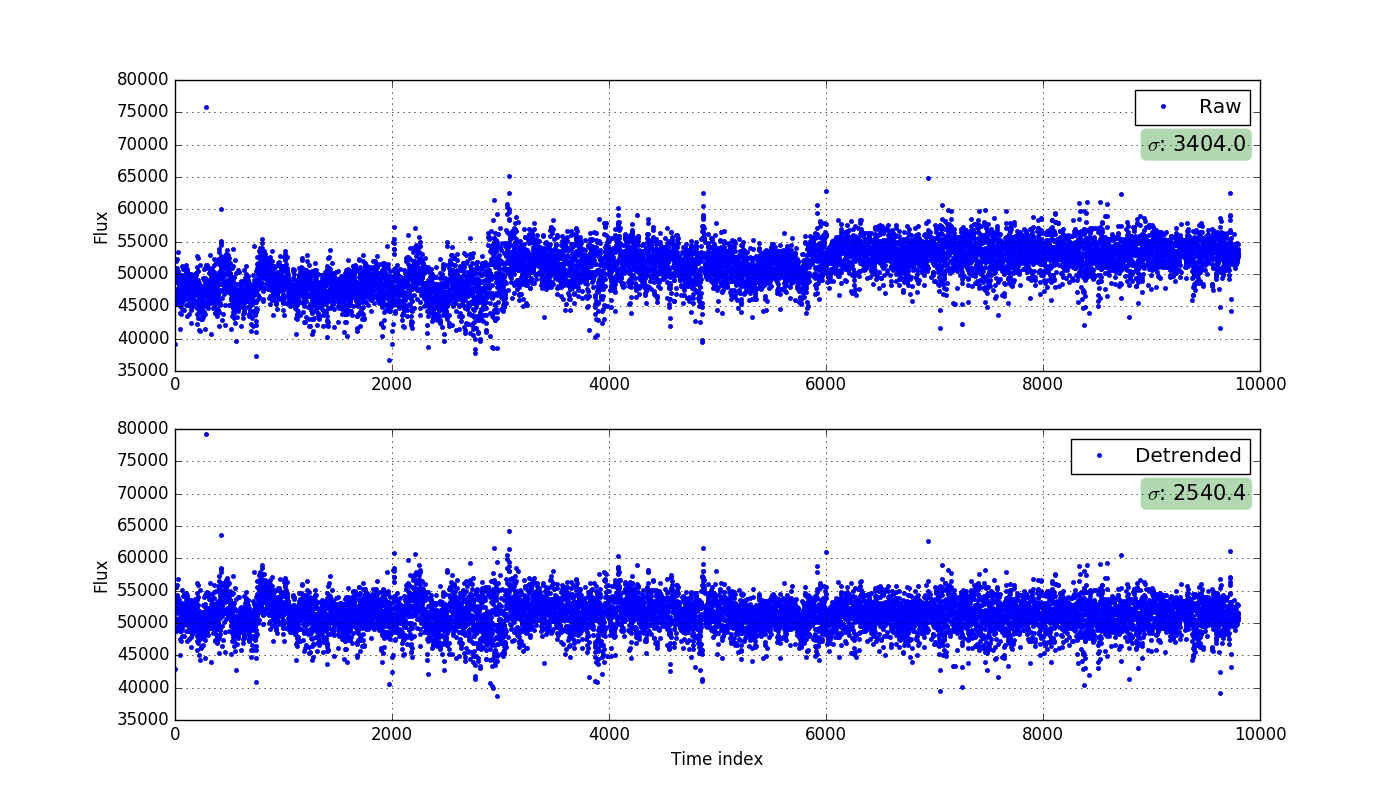
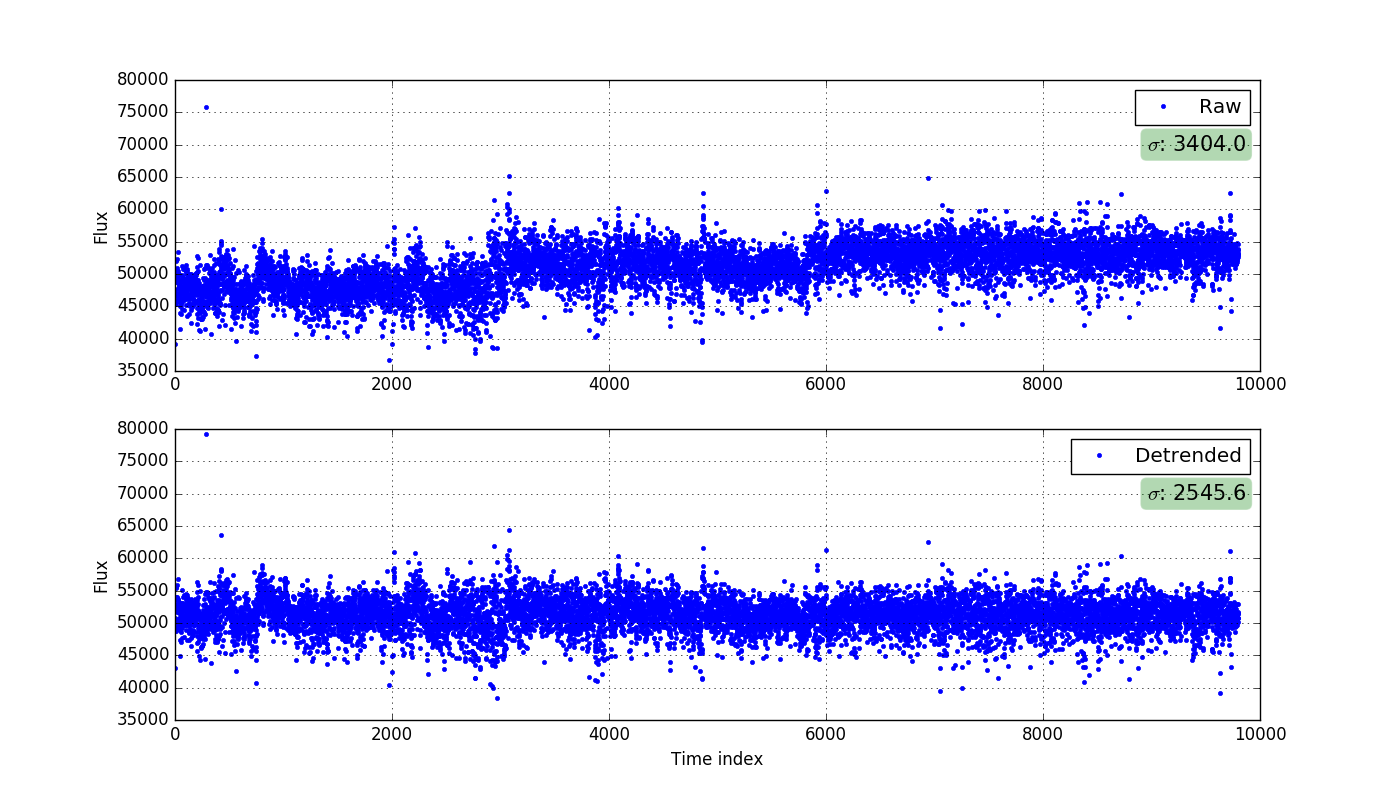
Many update

diff --git a/pdtrend/detrend.py b/pdtrend/detrend.py
@@ -1,5 +1,6 @@
 __author__ = 'kim'
 
+import warnings
 import numpy as np
 
 from sklearn.cluster import Birch
@@ -7,7 +8,8 @@ from scipy.optimize import least_squares
 
 
 class PDTrend:
-    def __init__(self, lcs, n_min_member=5, dist_cut=0.45):
+    def __init__(self, lcs, weights=None, xy_coords=None,
+                 n_min_member=10, dist_cut=0.45):
         """
         pdtrend determines master trends using Pearson correlation coefficients
         between each light curve and then provide a function to detrend
@@ -18,6 +20,15 @@ class PDTrend:
         Note that M must be same for all N light curves. pdtrend assumes that
         these M data points are synced in time. Thus pdtrend does not use
         any time information.
+        :param weights: A list of weights for the corresponding light curves.
+        It must contain N elements. N is the number of the light curves.
+        See the "lcs" parameter. Default is None, so the identical weights for
+        all light curves.
+        :param xy_coords: X and Y coordinates of stars of the light curves.
+        It must contain Nx2 elements, where N is the number of the light curves.
+        If the coordinates are given, the function "plot_spatial" can be called
+        after constructing master trends, which will plot the spatial
+        distribution of the master trends.
         :param n_min_member: The minimum number of members in each cluster.
         :param dist_cut: Distance cut to filter clusters. If the median distance
         between members in a cluster is larger than the cut, the cluster is
@@ -28,10 +39,34 @@ class PDTrend:
         if type(lcs) != np.ndarray:
             lcs = np.array(lcs)
 
+        if weights is not None:
+            if type(weights) != np.ndarray:
+                weights = np.array(weights)
+
+            if lcs.shape[0] != weights.shape[0]:
+                raise RuntimeError('Shapes of lcs and weights do not match.')
+        else:
+            # Same weights for the all light curves.
+            weights = np.ones(lcs.shape[0])
+
+        if xy_coords is not None:
+            if type(xy_coords) != np.ndarray:
+                xy_coords = np.array(xy_coords)
+
+            if lcs.shape[0] != xy_coords.shape[0]:
+                raise RuntimeError('Shapes of lcs and xy_coords do not match.')
+
         # Set parameters.
         self.lcs = lcs
+        self.weights = weights
+        self.xy_coords = xy_coords
         self.n_min_member = n_min_member
         self.dist_cut = dist_cut
+
+        # Initialize.
+        self.corr_matrix = None
+        self.dist_matrix = None
+        self.birch = None
 
     def _calculate_distance_matrix(self):
         """
@@ -77,6 +112,15 @@ class PDTrend:
 
         self._filtered_labels = _filtered_labels
 
+        # Check how many clusters are left.
+        if len(self._filtered_labels) == 0:
+            raise RuntimeWarning(
+                'No clusters were found. ' +
+                'Adjust input parameters and try again. ' +
+                'For instance, decrease "n_min_member" or ' +
+                'increase "dist_cut". For details, ' +
+                'visit https://github.com/dwkim78/pdtrend')
+
     def _build_master_trends(self):
         """
         Build master trends using the filtered clusters.
@@ -89,14 +133,22 @@ class PDTrend:
             master_trends_indices.append(index)
 
             trends = []
+            weights_sum = 0
             for i in range(len(index)):
-                # Normalize by standard deviation.
-                # So, no need to calculate weight again.
-                normed = (self.lcs[index[i]] - np.median(self.lcs[index[i]])) / \
-                         np.std(self.lcs[index[i]])
+                # Normalization.
+                med_lc = np.median(self.lcs[index[i]])
+                normed = (self.lcs[index[i]] - med_lc) / med_lc
+
+                # Weights.
+                weights = self.weights[index[i]]
+                normed *= weights
+                weights_sum += weights
+
                 trends.append(normed)
 
-            master_trends.append(np.sum(trends, axis=0) / len(index))
+            # Construct a master trends using the normalized and weighted
+            # light curves from the above for loop.
+            master_trends.append(np.sum(trends, axis=0) / weights_sum)
 
         self.master_trends_indices = master_trends_indices
         self.master_trends = master_trends
@@ -105,8 +157,14 @@ class PDTrend:
         """
         Run pdtrend pipeline.
         """
-        self._calculate_distance_matrix()
-        self._find_clusters()
+        if self.corr_matrix is None or self.dist_matrix is None:
+            self._calculate_distance_matrix()
+            self._find_clusters()
+        else:
+            # For the safety.
+            if self.birch is None:
+                self._find_clusters()
+
         self._filter_clusters()
         self._build_master_trends()
 
@@ -126,8 +184,14 @@ class PDTrend:
         """
         Detrend a light curves using the constructed master trends.
         """
+
+        # Convert the light curve set to numpy array.
+        if type(lc) != np.ndarray:
+            lc = np.array(lc)
+
         # Normalize.
-        raw = (lc - np.median(lc)) / np.std(lc)
+        med_lc = np.median(lc)
+        raw = (lc - med_lc) / med_lc
 
         # Initial guess.
         p0 = np.ones(len(self.master_trends))
@@ -139,6 +203,34 @@ class PDTrend:
         detrended = raw - self._func_trends(p1, self.master_trends)
 
         # Scale back to the original flux.
-        detrended = detrended * np.std(lc) + np.median(lc)
+        detrended = detrended * med_lc + med_lc
 
         return detrended
+
+    def plot_spatial(self, filename='spatial.png'):
+        """
+        Plot a spatial distribution of the constructed master trends.
+        :param filename: A png filename including the path. For example,
+        "./outputs/spatial.png". Default is "spatial.png"
+        """
+        if self.xy_coords is None:
+            warnings.warn('No x and y coordinates are given.')
+            return
+
+        import pylab as pl
+        pl.figure(figsize=(12, 12))
+        pl.title('Spatial distribution of the constructed master trends')
+
+        colors = 'bgrkmc'
+        marks = 's^.+x*'
+        for i in range(len(self.master_trends_indices)):
+            indices = self.master_trends_indices[i]
+            pl.plot(self.xy_coords[indices][:, 0],
+                    self.xy_coords[indices][:, 1],
+                    marker=marks[int(i / len(colors)) % len(marks)],
+                    color=colors[i % len(colors)], ls='None',
+                    label='Master trend %d' % (i + 1))
+        pl.xlabel('X coordinate')
+        pl.ylabel('Y coordinate')
+        pl.legend(numpoints=1)
+        pl.savefig(filename)

diff --git a/pdtrend/test/run.py b/pdtrend/test/run.py
@@ -15,8 +15,18 @@ def test():
     lcs = load_lightcurve_set()
     logger.info('\tThe number of light curves is %d.' % len(lcs))
 
+    np.random.seed(1024)
+    # Create random weights.
+    #weights = np.random.rand(lcs.shape[0])
+    # Same weights.
+    weights = np.ones(lcs.shape[0])
+
+    # X and Y coordinates
+    xy_coords = np.random.rand(lcs.shape[0], 2) * 1000.
+
     logger.info('Initializing pdtrend.')
-    pdt = PDTrend(lcs)
+    pdt = PDTrend(lcs, weights=weights, xy_coords=xy_coords,
+                  n_min_member=10, dist_cut=0.45)
 
     # We can run all the following routines using "pdtrend.run()",
     # but, here we do it individually to print log messages.
@@ -37,6 +47,9 @@ def test():
     output_path = './outputs/'
     if not os.path.exists(output_path):
         os.makedirs(output_path)
+
+    # Plotting spatial distribution.
+    pdt.plot_spatial('%s/spatial.png' % output_path)
 
     # Plotting the master trends.
     pl.figure(figsize=(10, 4))

diff --git a/setup.py b/setup.py
@@ -21,7 +21,7 @@ setup(
     keywords=['astronomy', 'light curves', 'time-series survey',
               'machine learning', 'trend', 'detrend'],
     classifiers=[
-        'Development Status :: 3 - Alpha',
+        'Development Status :: 2 - Pre-Alpha',
         'Intended Audience :: Science/Research',
         'License :: OSI Approved :: MIT License',
         'Natural Language :: English',

diff --git a/pdtrend/__init__.py b/pdtrend/__init__.py
@@ -4,5 +4,5 @@ from pdtrend.detrend import PDTrend
 from pdtrend.test.run import test
 
 from pdtrend.utils.logger import Logger
-
+from pdtrend.datasets.base import load_lightcurve_set
 

diff --git a/README.md b/README.md
@@ -1,4 +1,4 @@
-# PDT
+# PDT (Under Development)
 
 <div align="center"><img src="./pdtrend/datasets/images/PDT_logo.png"></div>
 
@@ -8,7 +8,7 @@ PDT (<b>P</b>hotometric <b>D</b>e<b>T</b>rending Algorithm  aims to remove syste
 The latest PDT uses [Birch](https://en.wikipedia.org/wiki/BIRCH) to find highly-correlated light curves rather than [Hierarchical clustering](https://en.wikipedia.org/wiki/Hierarchical_clustering) that [Kim et al. 2009](http://adsabs.harvard.edu/abs/2009MNRAS.397..558K) originally used. This is mainly because 1) Birch is scalable (i.e. applicable to large dataset), and 2) Birch does not need to set the number of clusters.
 
 
-Note that the input light curves <b>must</b> have the same number of data points. PDT then assumes that each light curve is synced in time. PDT is not designed to deal with missing data points or desynced data points. Also note that the light curves must be cleaned beforehand (e.g. highly-fluctuated data points, etc). Nevertheless, such functionality (e.g. dealing with desynced data, pre-processing, etc.) might be implemented in the future.  
+Note that the input light curves <b>must</b> have the same number of data points. PDT then assumes that each light curve is synced in time. PDT is not designed to deal with missing data points or desynced data points. Also note that the light curves <b>must</b> be cleaned beforehand (e.g. highly-fluctuated data points, etc). Nevertheless, such functionality (e.g. dealing with desynced data, pre-processing, etc.) might be implemented in the future.  
 
 Although PDT is designed for astronomical research, PDT can be applied to any kind of time series data such as stock market, weather data, etc.
 
@@ -93,11 +93,11 @@ yyyy-mm-dd hh:mm:ss,sss INFO - Ploting results.
 yyyy-mm-dd hh:mm:ss,sss INFO - Done.
 ```
 
-This command reads the sample data set cosisting of 57 Pan-STARRS light curves (Python pickled and bzipped), run the clustering algorithm (i.e. Birch) to find clusters, construct master trends using the clusters, and detrend one sample light curve. In addition, it generates two images under the "./output" folder.
+This command reads the sample data set cosisting of 57 Pan-STARRS light curves (Python pickled and bzipped), run the clustering algorithm (i.e. Birch) to find clusters, construct master trends of those clusters, and detrend a sample light curve. It also generates two output images under the "./output" folder.
 
 <div align="center"><img src="./pdtrend/datasets/images/master_trends.png" width="100%"œ><br/>[ Master Trends ]</div>
 
-The above image shows the master trend constructed by the clustering algorithm. In this example data set, PDT found one master trend. For details about what is a master trend, see [Kim et al. 2009](http://adsabs.harvard.edu/abs/2009MNRAS.397..558K).
+The above image shows the master trend constructed by the clustering algorithm. In this example data set, PDT found one master trend. For details about what is a master trend, see [Kim et al. 2009](http://adsabs.harvard.edu/abs/2009MNRAS.397..558K). In brief, it is a representative trend of a cluster.
 
 The following image is an example light curve before (top) and after (bottom) the detrending. Note that when PDT detrends a light curves, it minimized RMS of residuals while constraining weights for each master trend to be positive. The positive constraint is mandatory to avoid undesirable RMS minimization. For instance, if the weights are negative while the master trends are monotonically <b>increasing</b>, RMS minimization can reduce monotonically <b>decreasing</b> signals in light curves, which is unwanted. 
 
@@ -106,7 +106,7 @@ The following image is an example light curve before (top) and after (bottom) th
 
 ## How to Use PDT
 
-Using PDT is relatively simple because PDT assumes that light curves are synced. Nevertheless, note that PDT requires enough number of light curves to find clusters and master trends. We recommend to use PDT with at least 50 light curves.
+Using PDT is relatively simple because PDT assumes that light curves are synced. Nevertheless, note that PDT requires enough number of light curves to find clusters and master trends. We recommend to use PDT with at least 50 light curves, but not too many such as several tens of thousands because then it might take long to run. In the latter case, we recommend to run PDT several times using individual subsets of the light curves.
 
 The following pseudo code shows how to use PDT.
 
@@ -120,21 +120,21 @@ lcs = ...
 # Create PDT instance.
 pdt = PDTrend(lcs)
 
-# Run PDT to find clusters and then master trends.
+# Find clusters and then construct master trends.
 pdt.run()
 
 # Detrend each light curve.
 for lc in lcs:
-    detrended = pdt.detrend(lc)
+    detrended_lc = pdt.detrend(lc)
 ```
 
 In order to use PDT, light curve set must be read beforehand (i.e. the line  ```lcs = ...```). The ```lcs``` must consist of N rows where each row contains M columns. N is the number of light curves and M is the number of data points. ```lcs``` could be either Python list or numpy.ndarry. For example:
 
 ```
 lcs = [
-        [1, 2, 3, 4, 5]
-        [5, 4, 3, 2, 1]
-        [3, 3, 3, 3, 3]
+        [1, 2, 3, 4, 5],
+        [5, 4, 3, 2, 1],
+        [3, 3, 3, 3, 3],
       ]
 ```
 
@@ -144,8 +144,54 @@ When creating the PDT instance, you can set additional two options as:
 
 | Option | Description |
 |---:|:---|
-| n_min_member | The minimum number of members in each cluster. If a cluster has fewer members, PDT discards the cluster. Default is 5. If you have a lot of light curves (e.g. several hundreds), you can increase this number to 10, 20, 30 or so. |
-| dist_cut | The distance matrix that PDT uses is (1 - correlation matrix) / 2. Thus, if a cluster found by Birch consists of light curves of random Gaussian noise (i.e. no clear variability), it is likely that the median distance between the light curves is close to 0.5. Thus we can remove clusters whose median distance is larger than 0.5. Nevertheless, the default value is set to 0.45 in order to discard less-correlated clusters as well. If you increase this value (e.g. to 0.6 or so), PDT will construct master trends consisting of non-varying light curves. |
+| weights | A list of weights for the light curves. Default is None, so the identical weights for all light curves. |
+| n_min_member | The minimum number of members in each cluster. If a cluster has fewer members, PDT discards the cluster. Default is 10. If you have a lot of light curves (e.g. several hundreds or thousands), you might need to increase this number to 20, 30, 50, 100 or so. |
+| dist_cut | The distance matrix that PDT uses is (1 - correlation matrix) / 2. If a cluster found by Birch consists of light curves of random Gaussian noise (i.e. no clear variability), it is likely that the median distance between the light curves is close to 0.5. Thus we can remove clusters whose median distance is larger than 0.5. Nevertheless, the default value is set to 0.45 in order to discard less-correlated clusters as well. If you increase this value (e.g. to 0.6 or so), PDT will construct master trends consisting of non-varying light curves. |
+
+
+After creating an PDT instance (e.g. ```pdt```), you can execute the command ```pdt.run()```, which will find clusters and construct master trends. To remove trends in each light curve, you can then use ```pdt.detrend(lc)``` command which will return a detrended light curve. ```lc``` is an individual light curve of either 1d list or 1d numpy.ndarray. For example, 
+
+```
+lc = [1, 2, 3, 4, 5]
+```
+
+
+Note that you can apply the constructed master trends to any light curves if their data points are synced. Thus, if you preprocess your data and remove low signal-to-noise-ratio (SNR) light curves from ```lcs``` before running ```pdt.run```, you can 1) construct high SNR master trends, and 2) reduce time for calculating correlation matrix. The constructed master trends, of course, can be used to detrend low SNR light curves.  
+
+
+### Accessible Information
+
+Using the PDT instance, you can access the following information:
+
+| Variable | Description |
+|---:|:---|
+| master_trends | An array of light curves of the constructed master trends. For instance, if there are two master trends, ```master_trends``` will give something like: ```[[3, 4, 5, 1, 2], [2, 3, 5, 1, 3]]```. The first element in the array is the light curve of the first master trend, and same goes for the second element. |
+| master_trends_indices | These indices correspond to the indices of ```lcs``` that are used to construct each master trend. For example, if there are two master trends, it will give something like ```[[4, 6, 8, 12, 41, 55, 68, 78, 99], [7, 11, 39, 44, 58]]```. The first element gives the indices of the light curves (i.e. indices of ```lcs```) that are used to build the first master trend, and same goes for the second element. |
+| corr_matrix | A correlation matrix. The correlation coefficients are calculated using the Pearson's correlation. |
+| dist_matrix | A distance matrix = (1. - a correlation matrix) / 2. |
+| birch | A <a href="http://scikit-learn.org/">scikit-learn</a> instance of the trained Birch cluster. |
+
+You can access these information using the PDT instance. For instance, to access ```master_trends```, you can do as follows: ```pdt.master_trends```.
+
+
+### If You Get "No clusters were found" Message
+
+It means that PDT failed to find clusters of light curves that are highly correlated. This could imply that your dataset is indeed clean and have no trends in it. Nevertheless, if you still want to detect clusters of (less-highly-correlated) light curves, you can either decrease ```n_min_member``` or increase ```dist_cut```, and rerun the pipeline. For example,
+
+```
+...
+# The first execution.
+pdt.run() # If this returns you the message, "No clusters were found". 
+
+# Then, adjust parameters. For example:
+pdt.n_min_member = 8
+pdt.dist_cut = 0.6
+
+# And then, do the second execution.
+pdt.run()
+```
+
+The second execution of ```pdt.run()``` will be faster than the first execution because the Birch cluster is already trained (i.e. ```pdt.birch```) during the first execution. The Birch cluster will be retrained only if you create a new PDT instance (same goes for the correlation matrix and distance matrix).
 
 
 ### Logger
@@ -175,11 +221,20 @@ This will send log messages to both console and a log file. Note that the path m
 
 ## ChangeLog
 
+### v.?.?
+- modules for dealing with missing data points and not-synced data point?
+
 ### v.0.2
-- release alpha version
+- optional: consider weights while building master trends
+- optional: if X and Y coordinates are given, pdtrend can plot spatial distribution of constructed master trends.
+- if no master trend is found, warning and advice messages will be printed. 
 
 ### v.0.1
 - release pre-alpha version
+    - calculate correlation matrix and distance matrix
+    - train a Birch cluster
+    - construct master trends
+    - add a detrending module
 
 ### v.0.0.0
 - create the GitHub repository 
